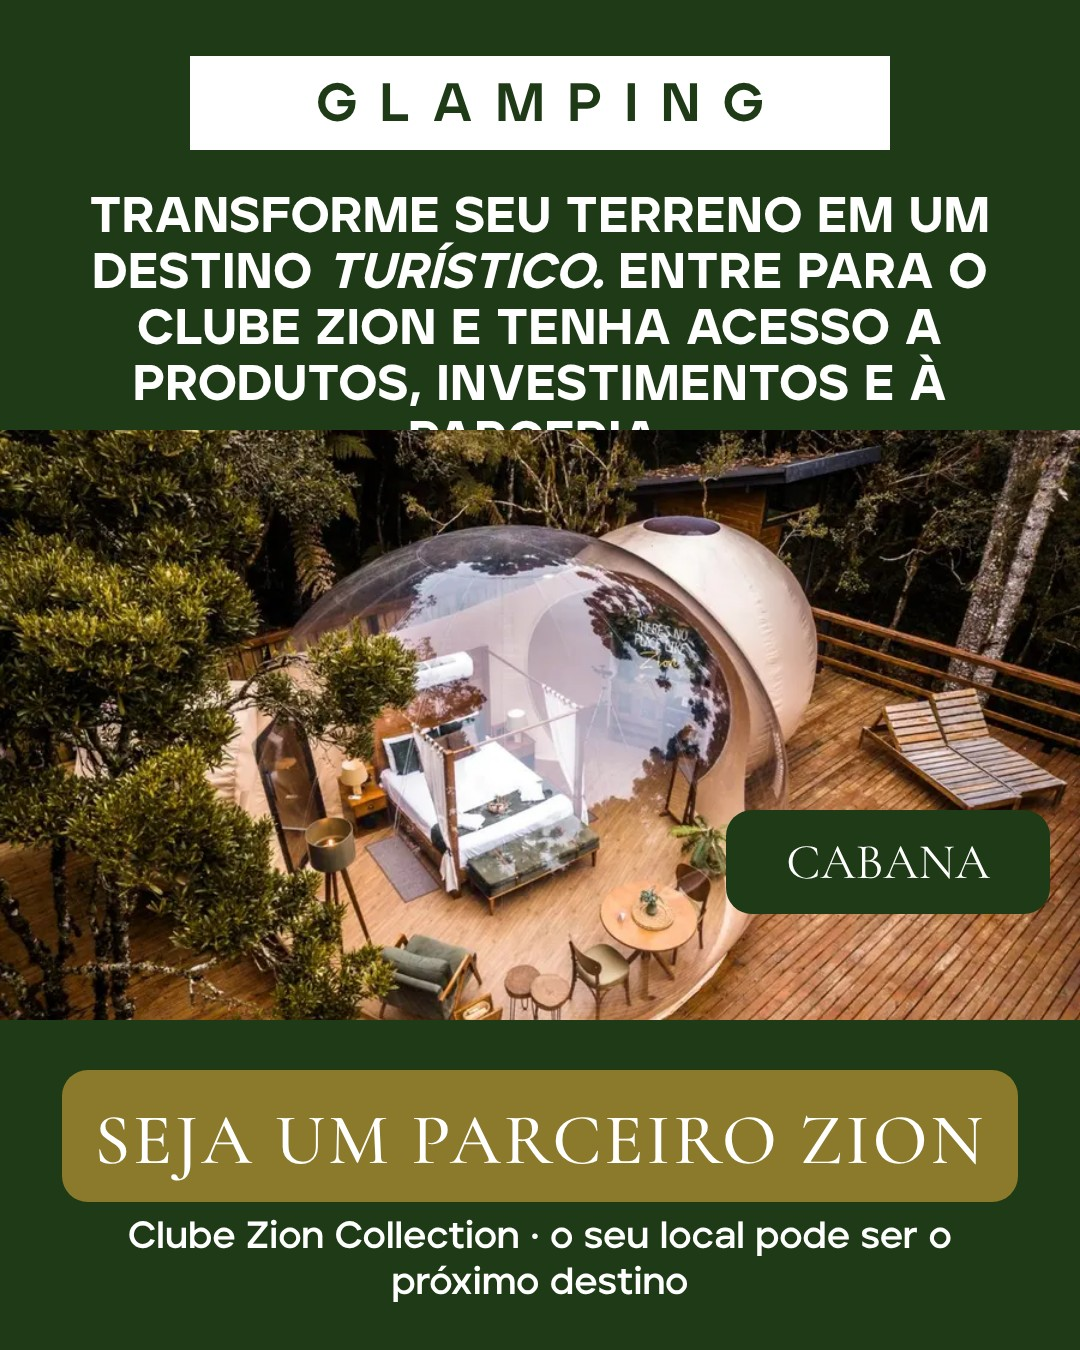
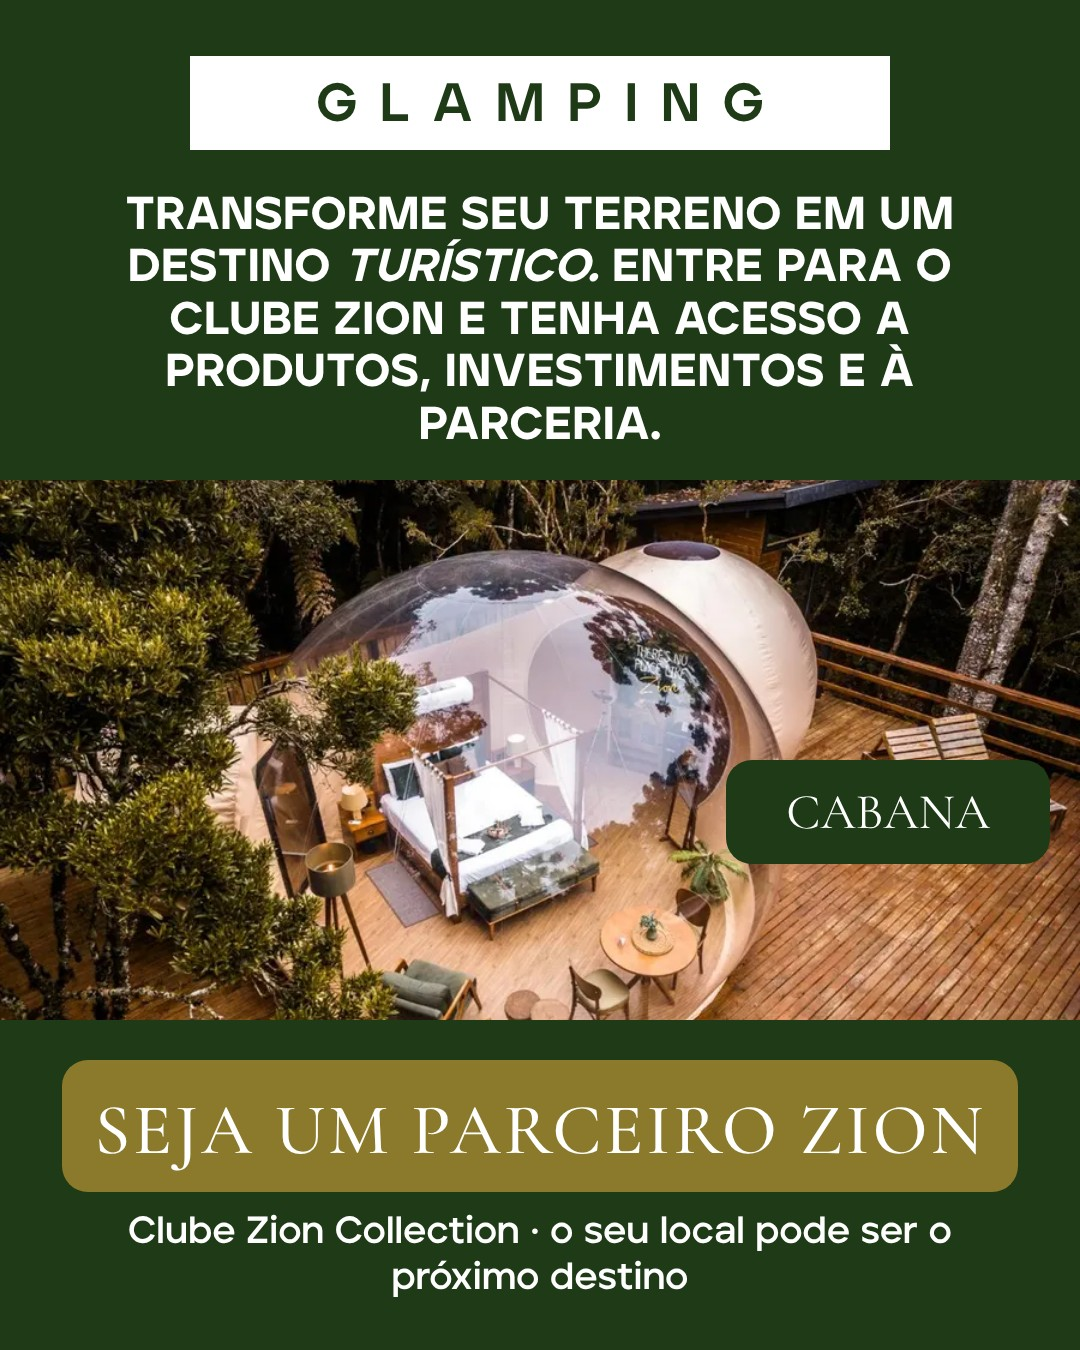
Card 1 da parceria: ajuste do título
Claude-Session: https://claude.ai/code/session_01BzUk5bYdjCT6eSVqUG9zKZ

diff --git a/producao/clube/ads/gen_verde_parceiro1.py b/producao/clube/ads/gen_verde_parceiro1.py
@@ -4,7 +4,7 @@ tpl='''<!doctype html><html><head><meta charset="utf-8"><style>
 @font-face{font-family:C;src:url(file://RR/docs/assets/fonts/cormorant.woff2)}@font-face{font-family:A;src:url(file://RR/docs/assets/fonts/aventa.woff2)}
 *{margin:0;box-sizing:border-box}body{width:1080px;height:1350px;overflow:hidden;background:#1E3A16;font-family:A,sans-serif;color:#fff;position:relative;text-align:center}
 .tag{position:absolute;left:190px;right:190px;top:56px;background:#fff;color:#1E3A16;font-weight:800;font-size:54px;letter-spacing:.42em;padding:16px 0 12px;text-indent:.42em}
-h1{position:absolute;left:60px;right:60px;top:190px;font-weight:900;font-size:50px;line-height:1.12;text-transform:uppercase;letter-spacing:.01em}
+h1{position:absolute;left:60px;right:60px;top:190px;font-weight:900;font-size:46px;line-height:1.14;text-transform:uppercase;letter-spacing:.01em}
 h1 em{font-style:italic}
 .photo{position:absolute;left:0;right:0;top:__TOP__;height:__HPX__;background:url(file://RR/docs/assets/operacoes/op08.webp) center/cover}
 .cab{position:absolute;right:30px;top:__CAB__;background:#1E3A16;color:#fff;font-family:C;font-size:50px;padding:22px 60px;border-radius:26px}
@@ -12,7 +12,7 @@ h1 em{font-style:italic}
 .cap{position:absolute;left:60px;right:60px;top:__CAPT__;font-weight:700;font-size:38px;line-height:1.2}
 </style></head><body><div class="tag">GLAMPING</div><h1>__HEAD__</h1><div class="photo"></div><div class="cab">CABANA</div><div class="btn">__BTN__</div><div class="cap">__CAP__</div></body></html>'''
 cards={
-'parceiro1':('Transforme seu terreno em um destino <em>turístico.</em> Entre para o Clube Zion e tenha acesso a produtos, investimentos e à parceria.','Seja um parceiro Zion','Clube Zion Collection · o seu local pode ser o próximo destino',430,590,810,1070,1215),
+'parceiro1':('Transforme seu terreno em um destino <em>turístico.</em> Entre para o Clube Zion e tenha acesso a produtos, investimentos e à parceria.','Seja um parceiro Zion','Clube Zion Collection · o seu local pode ser o próximo destino',480,540,760,1060,1210),
 }
 for k,(h,b,c,top,hp,cab,btn,cap) in cards.items():
     html=tpl.replace('RR',R).replace('__TOP__',f'{top}px').replace('__HPX__',f'{hp}px').replace('__CAB__',f'{cab}px').replace('__BTNT__',f'{btn}px').replace('__CAPT__',f'{cap}px').replace('__HEAD__',h).replace('__BTN__',b).replace('__CAP__',c)
